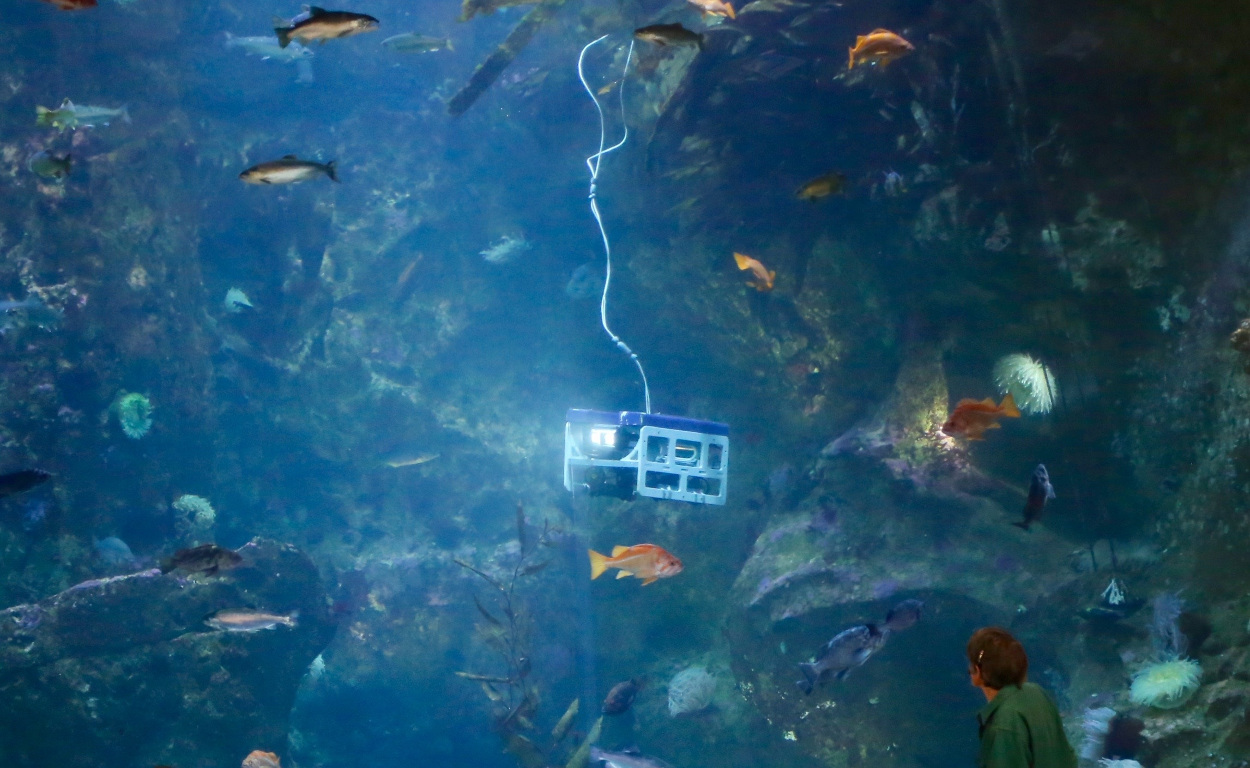
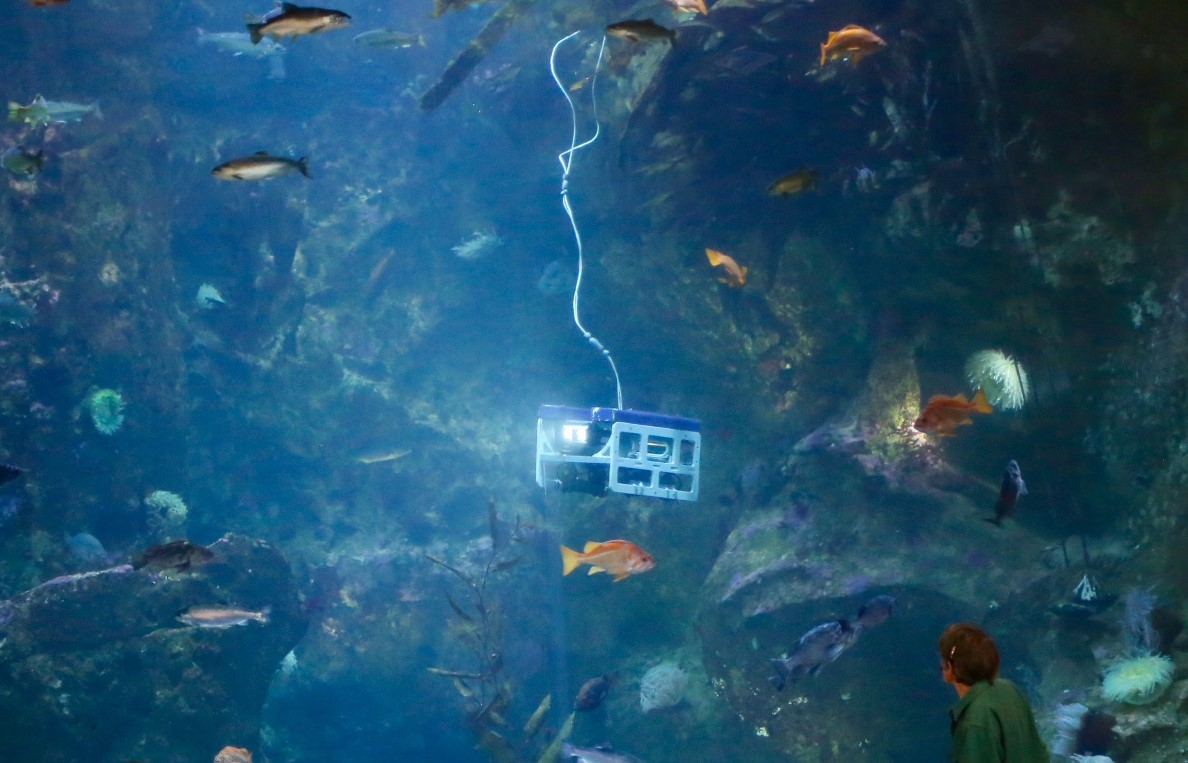
footer, nav, img resize
see above

diff --git a/index.html b/index.html
@@ -191,7 +191,6 @@
                 <a href="./eris.html">
                     <img class="img-responsive img-portfolio hvr-sink" src="./images/eris/thumbnail.jpg" alt="Testing from a boat">
                 </a>
-                <div style="position:absolute; top:0px; z-index:-10; background-color:#4b2e83; color:white; width:94.9%; height:10%; text-align:center">Eris Dock Testing</div>
             </div>
             <div class="col-md-6 col-sm-6">
                 <div class="img-responsive" style="width:100%">
@@ -256,20 +255,12 @@
             </div>
         </div>
         <!-- /.row -->
-        
-
-        
-        <!-- Footer -->
-        <footer>
-            <div class="row">
-                <div class="col-lg-12">
-                    <p>Copyright &copy; UWROV 2018</p>
-                </div>
-            </div>
-        </footer>
 
     </div>
     <!-- /.container -->
+
+    <!-- Footer -->
+    <script language="javascript" type="text/javascript" src="footer.js"></script>
 
     <!-- jQuery -->
     <script src="js/jquery.js"></script>

diff --git a/css/modern-business.css b/css/modern-business.css
@@ -99,7 +99,12 @@ header.carousel .fill {
 /* Footer Styles */
 
 footer {
-    margin: 50px 0;
+    bottom: 0;
+    width: 100%;
+    text-align: center;
+    padding: 6px;
+    background-color: rgb(51, 0, 111);
+    color: rgb(232, 211, 162);
 }
 
 /* Responsive Styles */

diff --git a/footer.js b/footer.js
@@ -1,0 +1,9 @@
+document.write(
+    '<footer>'+
+        '<div class="row">'+
+            '<div class="col-lg-12">'+
+                '<p>Copyright &copy; UWROV 2015-2020</p>'+
+            '</div>'+
+        '</div>'+
+    '</footer>'
+)
